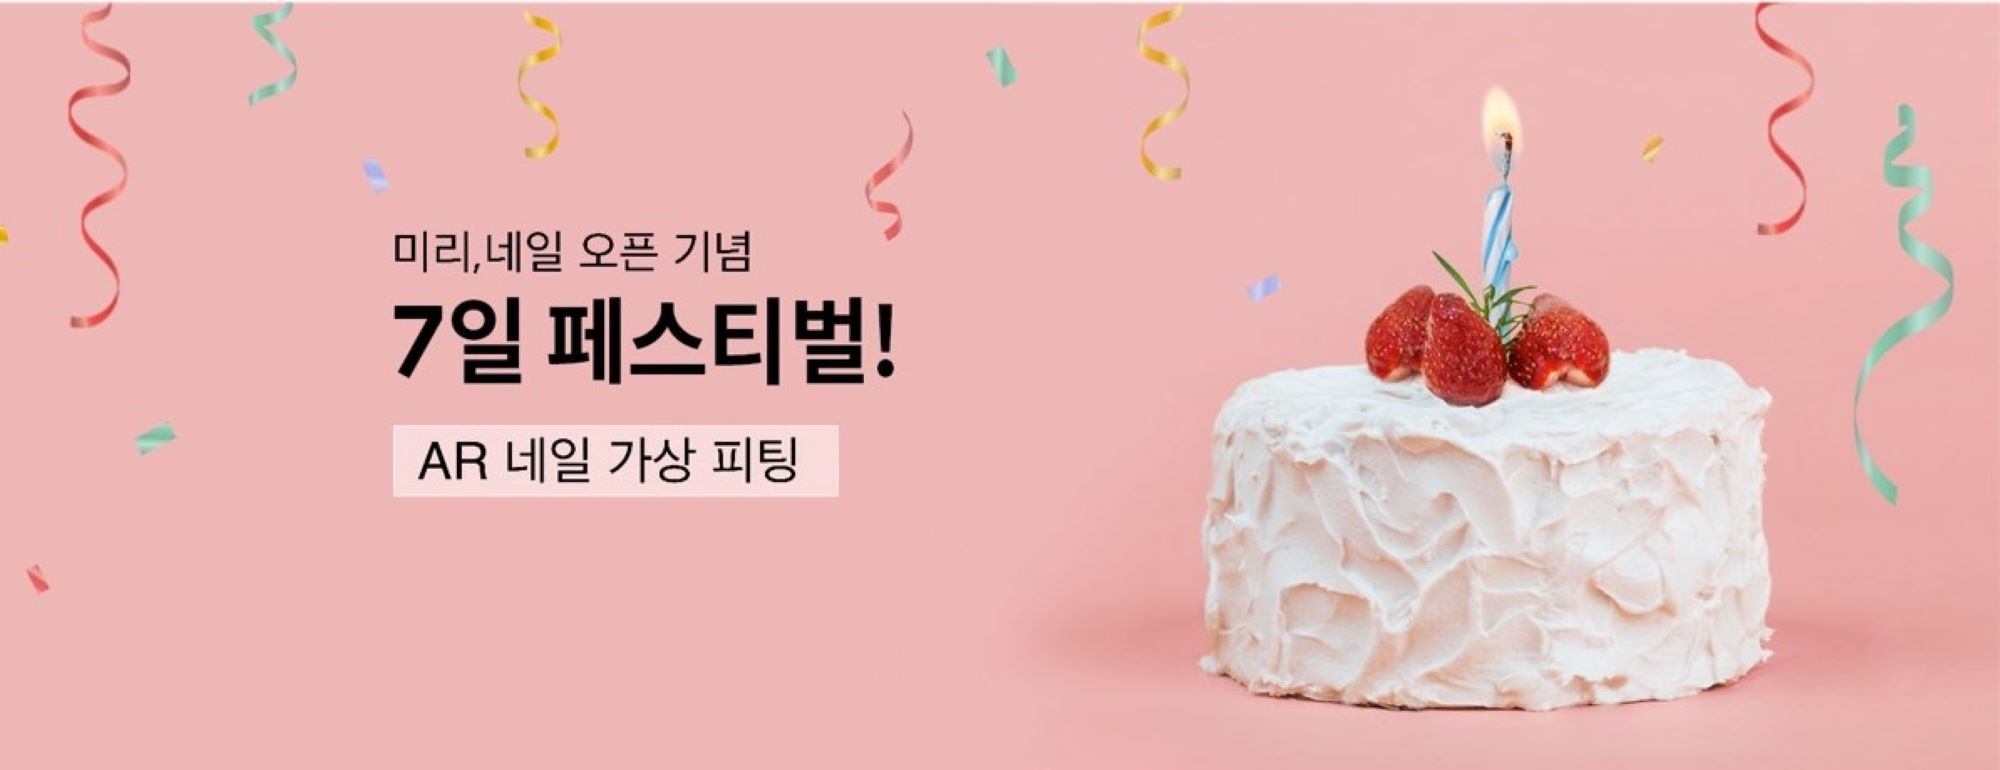
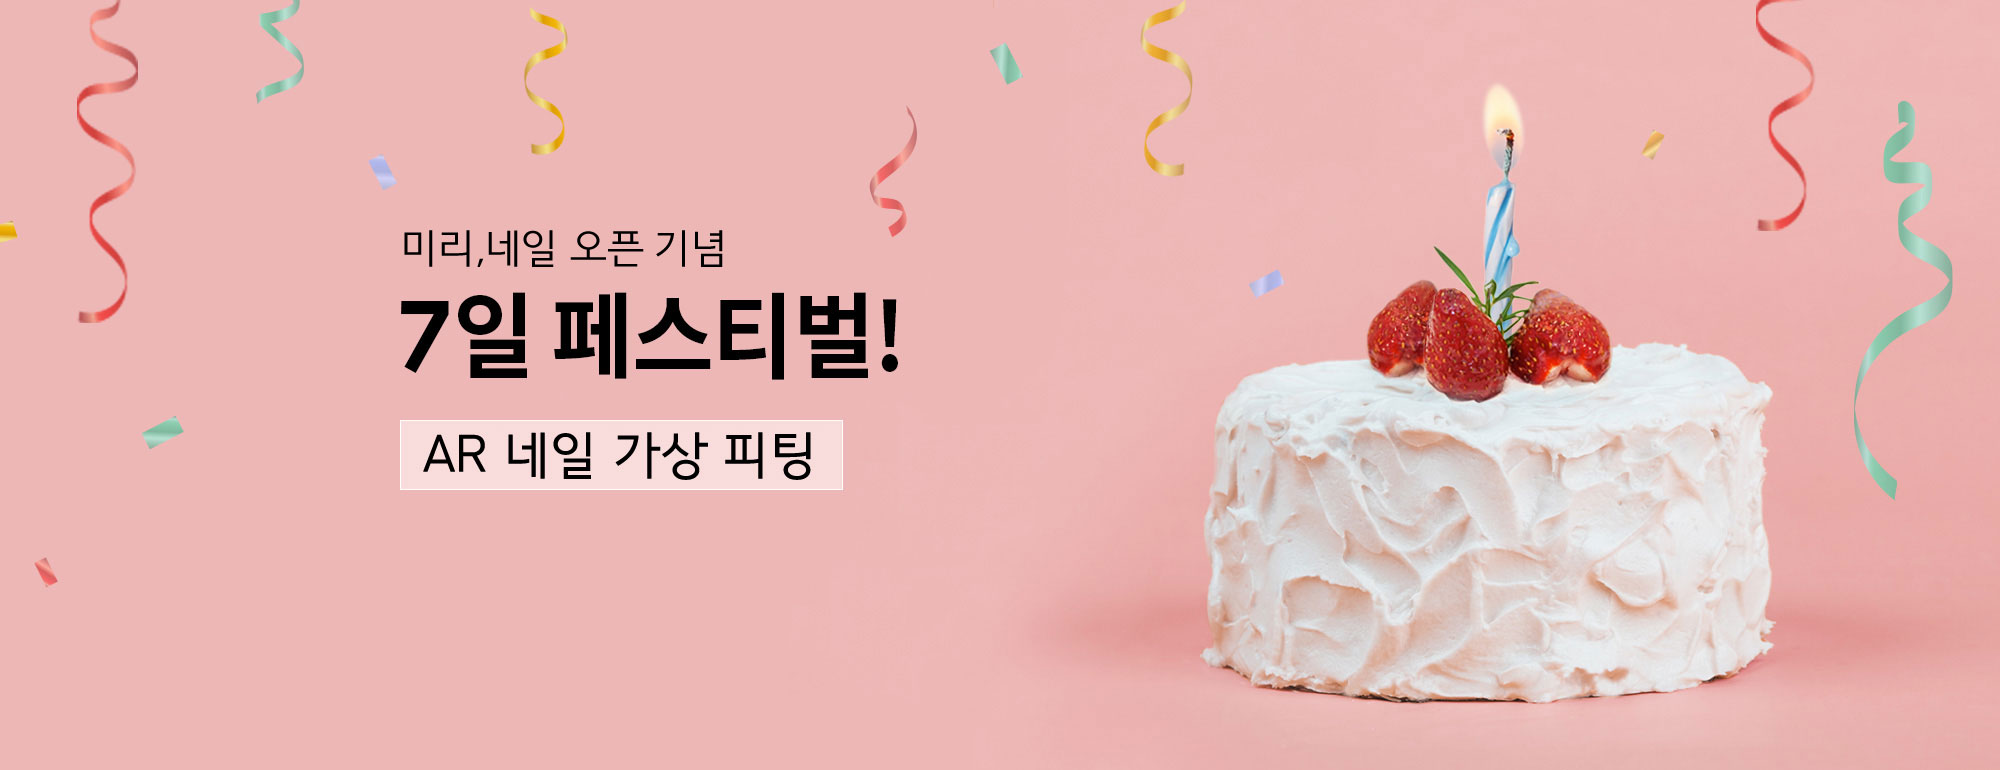
#S06P31E101-218 fix:carousel 이미지 변경

diff --git a/frontend/src/components/Main/Carousels.tsx b/frontend/src/components/Main/Carousels.tsx
@@ -1,12 +1,10 @@
 import { styled } from "@mui/material";
-import React, { Component } from "react";
 import Slider from "react-slick";
 import "slick-carousel/slick/slick.css";
 import "slick-carousel/slick/slick-theme.css";
-import Carousel from "react-material-ui-carousel";
-import bg1 from "../../assets/img/bg1.jpg";
-import bg2 from "../../assets/img/bg2.jpg";
-import bg3 from "../../assets/img/bg3.jpg";
+import bg1 from "../../assets/img/new_bg1.jpg";
+import bg2 from "../../assets/img/new_bg2.jpg";
+import bg3 from "../../assets/img/new_bg3.jpg";
 
 const Container = styled("div")({
   overflow: "hidden",
